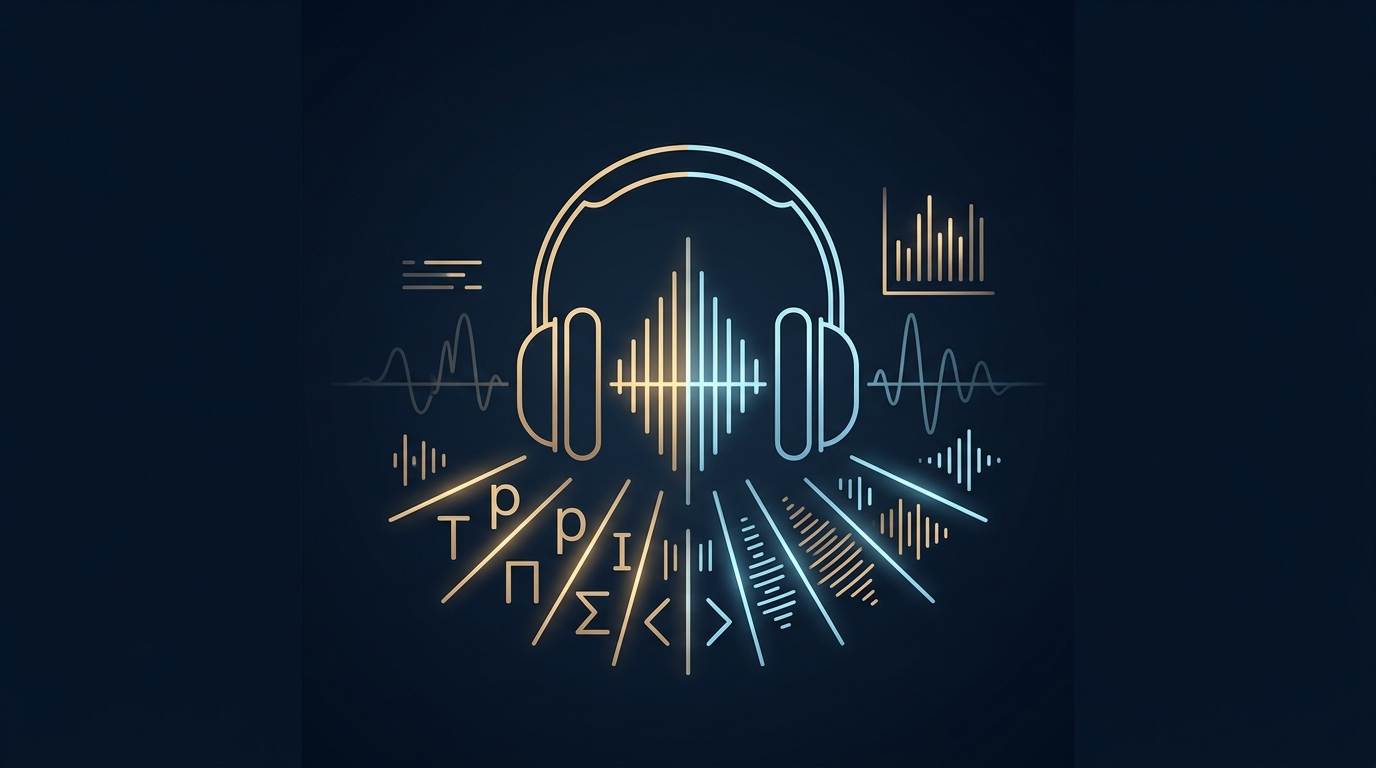
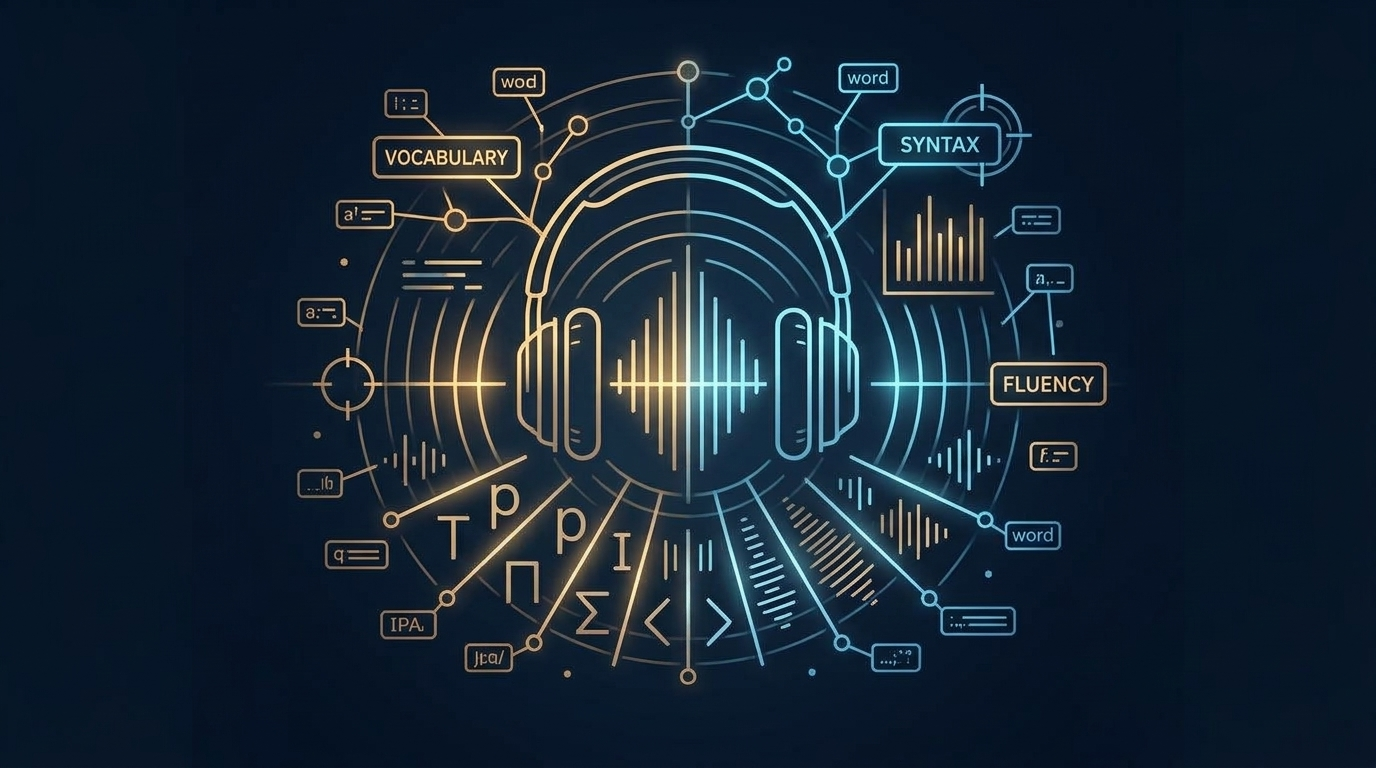
refactor: update course roadmap stages and content in landing page

diff --git a/app/page.js b/app/page.js
@@ -782,7 +782,7 @@ export default function Home() {
         <span className="section-badge">NỘI DUNG CHƯƠNG TRÌNH ĐÀO TẠO</span>
         <h2 className="section-title">Lộ Trình Bứt Phá <span className="highlight">600 + TOEIC Thực Chiến</span><br /><span className="title-sub-break">Trong 36 Buổi</span></h2>
         <p className="section-subtitle">
-          Đảm bảo chuẩn 600+ sau khóa học cho người mất gốc — Đồng thời rèn luyện kỹ năng xử lý đề ETS để bạn hoàn toàn có thể bứt phá 800+ bình thường. Được thiết kế theo trục thời gian 6 chặng liên hoàn:
+          Đảm bảo chuẩn 600+ sau khóa học cho người mất gốc — Đồng thời rèn luyện kỹ năng xử lý đề ETS để bạn hoàn toàn có thể bứt phá 800+ bình thường. Được thiết kế theo trục thời gian 3 giai đoạn tinh gọn &amp; thực chiến:
         </p>
       </div>
 
@@ -794,16 +794,16 @@ export default function Home() {
             <div className="mv-roadmap-beam" id="mv-roadmap-beam"></div>
           </div>
 
-          {/*  Chặng 01  */}
+          {/*  Giai Đoạn 01  */}
           <div className="mv-roadmap-row">
             <div className="mv-roadmap-left">
               <span className="mv-stage-pill">• GIAI ĐOẠN 01</span>
-              <h3 className="mv-stage-left-title">Xây Nền & Phản Xạ Nghe</h3>
-              <div className="mv-stage-sessions-tag">Buổi 01 – 06 • 2 tuần đầu</div>
+              <h3 className="mv-stage-left-title">Xóa Mù Nền Tảng &amp; Luyện Nghe Thực Chiến</h3>
+              <div className="mv-stage-sessions-tag">Xây Nền Vững Chắc • Listening Part 1 – 4</div>
               <div className="mv-stage-illustration-wrap">
                 <img
                   src="/image/stage-1-illustration.jpg"
-                  alt="Minh họa Giai đoạn 01: Chuẩn Hóa Ngữ Âm IPA & Xóa Mù Nghe Part 1 - Part 2"
+                  alt="Minh họa Giai đoạn 01: Xóa Mù Nền Tảng & Luyện Nghe Thực Chiến"
                   className="mv-stage-illustration-img"
                   loading="lazy"
                 />
@@ -817,48 +817,38 @@ export default function Home() {
               <div className="mv-roadmap-card">
                 <div className="mv-mobile-stage-bar">
                   <span className="mv-stage-pill">• GIAI ĐOẠN 01</span>
-                  <span className="mv-stage-sessions-tag">Buổi 01 – 06 • 2 tuần đầu</span>
+                  <span className="mv-stage-sessions-tag">Xây Nền Vững Chắc • Listening Part 1 – 4</span>
                 </div>
                 <div className="mv-mobile-stage-illustration">
                   <img
                     src="/image/stage-1-illustration.jpg"
-                    alt="Minh họa Giai đoạn 01: Chuẩn Hóa Ngữ Âm IPA & Xóa Mù Nghe Part 1 - Part 2"
+                    alt="Minh họa Giai đoạn 01: Xóa Mù Nền Tảng & Luyện Nghe Thực Chiến"
                     className="mv-stage-illustration-img"
                     loading="lazy"
                   />
                 </div>
-                <h4 className="mv-card-headline">Chuẩn Hóa Ngữ Âm IPA & Xóa Mù Nghe Part 1 - Part 2</h4>
+                <h4 className="mv-card-headline">Xóa Mù Nền Tảng &amp; Làm Chủ Kỹ Thuật Nghe Thực Chiến Part 1 – Part 4</h4>
                 <p className="mv-card-summary">
-                  Sửa triệt để khẩu hình và phát âm từng nguyên âm, phụ âm, hiện tượng nối âm và nuốt âm của người bản xứ. Loại bỏ hoàn toàn thói quen nghe dịch thô trong đầu.
+                  Bạn sẽ nắm trọn bẫy trong phần <strong>NGHE</strong> của bài thi TOEIC, kỹ thuật <strong>"săn" Keyword</strong> và cách <strong>nghe hiểu Part 1 đến Part 4</strong> mà không cần phải dịch 100% bài nghe. Kèm theo đó, mình sẽ cung cấp cho các bạn nắm vững toàn bộ kiến thức siêu nền tảng như <strong>công thức &amp; cách dùng của các thì cơ bản</strong>, <strong>công thức câu bị động tiếng Anh</strong> cùng <strong>1.000 từ vựng tiếng Anh cơ bản</strong> — giúp bạn xóa bỏ hoàn toàn tình trạng nghe tiếng Anh mãi mà không hiểu gì.
                 </p>
-                <div className="mv-card-bullets">
-                  <div className="mv-bullet-item">
-                    <i data-lucide="check-circle" style={{ width: '16px', height: '16px' }}></i>
-                    <span>Gọi từng học viên đọc mẫu và sửa lỗi phát âm IPA 1-1 trực tiếp qua Zoom Live.</span>
-                  </div>
-                  <div className="mv-bullet-item">
-                    <i data-lucide="check-circle" style={{ width: '16px', height: '16px' }}></i>
-                    <span>Bẻ gãy bẫy câu hỏi WH- và các câu trả lời gián tiếp của đề thi ETS mới ("Ask David", "Not yet decided").</span>
-                  </div>
-                </div>
                 <div className="mv-deliverable-badge">
                   <i data-lucide="target" style={{ width: '16px', height: '16px' }}></i>
-                  <span>Mục tiêu chặng: Đúng &gt;80% Part 1 và làm chủ phản xạ bẫy câu hỏi Part 2 trong 3 giây.</span>
+                  <span>Mục tiêu giai đoạn: Xóa sạch mất gốc, làm chủ phản xạ bẫy nghe Part 1 - 4 và tự tin đạt 350+ Listening.</span>
                 </div>
               </div>
             </div>
           </div>
 
-          {/*  Chặng 02  */}
+          {/*  Giai Đoạn 02  */}
           <div className="mv-roadmap-row">
             <div className="mv-roadmap-left">
               <span className="mv-stage-pill">• GIAI ĐOẠN 02</span>
-              <h3 className="mv-stage-left-title">Bắt Nhịp Part 3 - Part 4</h3>
-              <div className="mv-stage-sessions-tag">Buổi 07 – 12 • Tuần 3-4</div>
+              <h3 className="mv-stage-left-title">Reading Bứt Phá &amp; Mẹo Giải Nhanh 3 Giây</h3>
+              <div className="mv-stage-sessions-tag">Đột Phá Điểm Số • Reading Part 5, 6 &amp; 7</div>
               <div className="mv-stage-illustration-wrap">
                 <img
                   src="/image/stage-2-illustration.jpg"
-                  alt="Minh họa Giai đoạn 02: Bắt Nhịp Part 3 - Part 4 & Săn Keyword"
+                  alt="Minh họa Giai đoạn 02: Reading Bứt Phá & Mẹo Giải Nhanh 3 Giây"
                   className="mv-stage-illustration-img"
                   loading="lazy"
                 />
@@ -872,48 +862,38 @@ export default function Home() {
               <div className="mv-roadmap-card">
                 <div className="mv-mobile-stage-bar">
                   <span className="mv-stage-pill">• GIAI ĐOẠN 02</span>
-                  <span className="mv-stage-sessions-tag">Buổi 07 – 12 • Tuần 3-4</span>
+                  <span className="mv-stage-sessions-tag">Đột Phá Điểm Số • Reading Part 5, 6 &amp; 7</span>
                 </div>
                 <div className="mv-mobile-stage-illustration">
                   <img
                     src="/image/stage-2-illustration.jpg"
-                    alt="Minh họa Giai đoạn 02: Bắt Nhịp Part 3 - Part 4 & Săn Keyword"
+                    alt="Minh họa Giai đoạn 02: Reading Bứt Phá & Mẹo Giải Nhanh 3 Giây"
                     className="mv-stage-illustration-img"
                     loading="lazy"
                   />
                 </div>
-                <h4 className="mv-card-headline">Luyện Sâu Kỹ Thuật Đọc Trước Đề & Săn Keyword Part 3 - 4</h4>
+                <h4 className="mv-card-headline">Reading Bứt Phá: Mẹo Giải Nhanh 3 Giây &amp; Tuyệt Chiêu Xử Lý Part 7</h4>
                 <p className="mv-card-summary">
-                  Thành thạo kỹ thuật đọc trước câu hỏi và đáp án trong 20 giây nghỉ giữa các đoạn audio, định vị trước ngữ cảnh để đón đầu đáp án trước khi người bản xứ nói dứt câu.
+                  Mình sẽ chỉ dạy toàn bộ tất cả kiến thức nền tảng cần thiết để bạn làm thật tốt phần <strong>ĐỌC HIỂU</strong>. Bạn được trang bị <strong>kỹ năng giải nhanh Part 5, 6</strong> — nhìn phát biết ngay câu nào dùng mẹo chọn đáp án <strong>trong 3 giây</strong>, câu nào cần dịch. Ngoài ra, bạn sẽ nắm được <strong>kỹ thuật xử lý Part 7 đọc hiểu văn bản</strong>, không cần đọc hết bài văn vẫn có thể chọn được đáp án đúng. Và bởi vì đây là khóa học thực chiến nên ngoài những kiến thức nền tảng nói trên, bạn sẽ được mình chỉ dạy trọn bộ <strong>kỹ năng làm bài</strong>, <strong>chiến thuật chia thời gian</strong> và <strong>cách xử lý các dạng câu hỏi hiệu quả</strong> trong bài thi TOEIC.
                 </p>
-                <div className="mv-card-bullets">
-                  <div className="mv-bullet-item">
-                    <i data-lucide="check-circle" style={{ width: '16px', height: '16px' }}></i>
-                    <span>Nắm trọn cấu trúc Mở - Thân - Kết của đoạn hội thoại & bài độc thoại thường gặp trong môi trường công sở.</span>
-                  </div>
-                  <div className="mv-bullet-item">
-                    <i data-lucide="check-circle" style={{ width: '16px', height: '16px' }}></i>
-                    <span>Thi thử Checkpoint đánh giá sức bền nghe 100 câu liên tục không bị đuối sức.</span>
-                  </div>
-                </div>
                 <div className="mv-deliverable-badge">
                   <i data-lucide="target" style={{ width: '16px', height: '16px' }}></i>
-                  <span>Mục tiêu chặng: Bắt nhịp audio mượt mà, không bị trôi câu hỏi, tự tin đạt 350–420+ điểm Listening.</span>
+                  <span>Mục tiêu giai đoạn: Quét sạch 46 câu Part 5+Part 6 trong chớp mắt, dứt điểm Part 7 không lo cháy giờ, bứt phá 350+ Reading.</span>
                 </div>
               </div>
             </div>
           </div>
 
-          {/*  Chặng 03  */}
+          {/*  Giai Đoạn 03  */}
           <div className="mv-roadmap-row">
             <div className="mv-roadmap-left">
               <span className="mv-stage-pill">• GIAI ĐOẠN 03</span>
-              <h3 className="mv-stage-left-title">Ngữ Pháp & Part 5 Siêu Tốc</h3>
-              <div className="mv-stage-sessions-tag">Buổi 13 – 20 • Tuần 5-7</div>
+              <h3 className="mv-stage-left-title">Luyện Đề Format Chuẩn Thi Thật</h3>
+              <div className="mv-stage-sessions-tag">Sát Phòng Thi ETS • Chấm Chữa &amp; Kèm Cặp 1-1</div>
               <div className="mv-stage-illustration-wrap">
                 <img
                   src="/image/stage-3-illustration.jpg"
-                  alt="Minh họa Giai đoạn 03: Ngữ Pháp Cốt Lõi & Part 5 Siêu Tốc Trong 15s"
+                  alt="Minh họa Giai đoạn 03: Luyện Đề Format Chuẩn Thi Thật"
                   className="mv-stage-illustration-img"
                   loading="lazy"
                 />
@@ -921,204 +901,29 @@ export default function Home() {
             </div>
             <div className="mv-roadmap-center">
               <div className="mv-roadmap-node">03</div>
-              <div className="mv-roadmap-spine"></div>
-            </div>
-            <div className="mv-roadmap-right">
-              <div className="mv-roadmap-card">
-                <div className="mv-mobile-stage-bar">
-                  <span className="mv-stage-pill">• GIAI ĐOẠN 03</span>
-                  <span className="mv-stage-sessions-tag">Buổi 13 – 20 • Tuần 5-7</span>
-                </div>
-                <div className="mv-mobile-stage-illustration">
-                  <img
-                    src="/image/stage-3-illustration.jpg"
-                    alt="Minh họa Giai đoạn 03: Ngữ Pháp Cốt Lõi & Part 5 Siêu Tốc Trong 15s"
-                    className="mv-stage-illustration-img"
-                    loading="lazy"
-                  />
-                </div>
-                <h4 className="mv-card-headline">Làm Chủ Ngữ Pháp Cốt Lõi & Xử Lý Part 5 Trong 15s/Câu</h4>
-                <p className="mv-card-summary">
-                  Cô đọng 12 thì động từ thực chiến, câu bị động, trật tự từ loại (Danh/Tính/Động/Trạng), mệnh đề quan hệ và liên từ. Dạy cách ngắt cụm ngữ pháp để nhìn ra ngay đáp án.
-                </p>
-                <div className="mv-card-bullets">
-                  <div className="mv-bullet-item">
-                    <i data-lucide="check-circle" style={{ width: '16px', height: '16px' }}></i>
-                    <span>Kỹ thuật nhìn đuôi từ và vị trí ngữ pháp chọn ngay đáp án mà không cần dịch toàn bộ câu.</span>
-                  </div>
-                  <div className="mv-bullet-item">
-                    <i data-lucide="check-circle" style={{ width: '16px', height: '16px' }}></i>
-                    <span>Tiết kiệm ít nhất 15 phút quý giá cho phần Part 5 để dồn thời gian giải quyết Part 7.</span>
-                  </div>
-                </div>
-                <div className="mv-deliverable-badge">
-                  <i data-lucide="target" style={{ width: '16px', height: '16px' }}></i>
-                  <span>Mục tiêu chặng: Hoàn thành 30 câu Part 5 trong dưới 8 phút với độ chính xác trên 85%.</span>
-                </div>
-              </div>
-            </div>
-          </div>
-
-          {/*  Chặng 04  */}
-          <div className="mv-roadmap-row">
-            <div className="mv-roadmap-left">
-              <span className="mv-stage-pill">• GIAI ĐOẠN 04</span>
-              <h3 className="mv-stage-left-title">Scanning & Skimming Part 6 - 7</h3>
-              <div className="mv-stage-sessions-tag">Buổi 21 – 28 • Tuần 8-9</div>
-              <div className="mv-stage-illustration-wrap">
-                <img
-                  src="/image/stage-4-illustration.jpg"
-                  alt="Minh họa Giai đoạn 04: Chiến Thuật Scanning - Skimming & Đọc Hiểu Part 6 - 7"
-                  className="mv-stage-illustration-img"
-                  loading="lazy"
-                />
-              </div>
-            </div>
-            <div className="mv-roadmap-center">
-              <div className="mv-roadmap-node">04</div>
-              <div className="mv-roadmap-spine"></div>
-            </div>
-            <div className="mv-roadmap-right">
-              <div className="mv-roadmap-card">
-                <div className="mv-mobile-stage-bar">
-                  <span className="mv-stage-pill">• GIAI ĐOẠN 04</span>
-                  <span className="mv-stage-sessions-tag">Buổi 21 – 28 • Tuần 8-9</span>
-                </div>
-                <div className="mv-mobile-stage-illustration">
-                  <img
-                    src="/image/stage-4-illustration.jpg"
-                    alt="Minh họa Giai đoạn 04: Chiến Thuật Scanning - Skimming & Đọc Hiểu Part 6 - 7"
-                    className="mv-stage-illustration-img"
-                    loading="lazy"
-                  />
-                </div>
-                <h4 className="mv-card-headline">Chiến Thuật Scanning - Skimming & Đọc Hiểu Part 6 - Part 7</h4>
-                <p className="mv-card-summary">
-                  Phân bổ bản đồ thời gian phòng thi chuẩn xác: Kỹ thuật đọc lướt (Skimming) nắm ý chính và đọc quét (Scanning) định vị từ khóa cho từng dạng câu hỏi trong bài đọc dài.
-                </p>
-                <div className="mv-card-bullets">
-                  <div className="mv-bullet-item">
-                    <i data-lucide="check-circle" style={{ width: '16px', height: '16px' }}></i>
-                    <span>Chiến lược xử lý triệt để đoạn đơn, đoạn đôi, đoạn ba và chuỗi tin nhắn Message Chain.</span>
-                  </div>
-                  <div className="mv-bullet-item">
-                    <i data-lucide="check-circle" style={{ width: '16px', height: '16px' }}></i>
-                    <span>Xóa bỏ hoàn toàn nỗi sợ cháy giờ, làm xong Part 7 vẫn thừa 5–10 phút kiểm tra lại bài.</span>
-                  </div>
-                </div>
-                <div className="mv-deliverable-badge">
-                  <i data-lucide="target" style={{ width: '16px', height: '16px' }}></i>
-                  <span>Mục tiêu chặng: Không bao giờ bị thiếu giờ, tự tin giải quyết gọn gàng 100 câu Reading.</span>
-                </div>
-              </div>
-            </div>
-          </div>
-
-          {/*  Chặng 05  */}
-          <div className="mv-roadmap-row">
-            <div className="mv-roadmap-left">
-              <span className="mv-stage-pill">• GIAI ĐOẠN 05</span>
-              <h3 className="mv-stage-left-title">Part 7 Nâng Cao & Bứt Tốc</h3>
-              <div className="mv-stage-sessions-tag">Buổi 29 – 34 • Tuần 10-11</div>
-              <div className="mv-stage-illustration-wrap">
-                <img
-                  src="/image/stage-5-illustration.jpg"
-                  alt="Minh họa Giai đoạn 05: Xử Lý Văn Bản Khó Part 7 & Bứt Tốc Về Đích"
-                  className="mv-stage-illustration-img"
-                  loading="lazy"
-                />
-              </div>
-            </div>
-            <div className="mv-roadmap-center">
-              <div className="mv-roadmap-node">05</div>
-              <div className="mv-roadmap-spine"></div>
-            </div>
-            <div className="mv-roadmap-right">
-              <div className="mv-roadmap-card">
-                <div className="mv-mobile-stage-bar">
-                  <span className="mv-stage-pill">• GIAI ĐOẠN 05</span>
-                  <span className="mv-stage-sessions-tag">Buổi 29 – 34 • Tuần 10-11</span>
-                </div>
-                <div className="mv-mobile-stage-illustration">
-                  <img
-                    src="/image/stage-5-illustration.jpg"
-                    alt="Minh họa Giai đoạn 05: Xử Lý Văn Bản Khó Part 7 & Bứt Tốc Về Đích"
-                    className="mv-stage-illustration-img"
-                    loading="lazy"
-                  />
-                </div>
-                <h4 className="mv-card-headline">Kỹ Năng Xử Lý Văn Bản Khó Part 7 & Bứt Tốc Về Đích</h4>
-                <p className="mv-card-summary">
-                  Bóc tách các bài đọc suy luận phức tạp, email đa chiều và bảng biểu kỹ thuật số. Thầy Hưng trực tiếp chấm chữa, bóc tách ma trận lỗi sai cá nhân của từng học viên.
-                </p>
-                <div className="mv-card-bullets">
-                  <div className="mv-bullet-item">
-                    <i data-lucide="check-circle" style={{ width: '16px', height: '16px' }}></i>
-                    <span>Phân tích ma trận bẫy từ đồng nghĩa Paraphrase tinh vi nhất của các bộ đề ETS mới nhất.</span>
-                  </div>
-                  <div className="mv-bullet-item">
-                    <i data-lucide="check-circle" style={{ width: '16px', height: '16px' }}></i>
-                    <span>Vá ngay các lỗ hổng kiến thức và thói quen làm bài còn thiếu sót trước kỳ thi thật.</span>
-                  </div>
-                </div>
-                <div className="mv-deliverable-badge">
-                  <i data-lucide="target" style={{ width: '16px', height: '16px' }}></i>
-                  <span>Mục tiêu chặng: Tăng thêm 80–120 điểm Reading, điểm thi thử đạt mốc 650–750+.</span>
-                </div>
-              </div>
-            </div>
-          </div>
-
-          {/*  Chặng 06  */}
-          <div className="mv-roadmap-row">
-            <div className="mv-roadmap-left">
-              <span className="mv-stage-pill">• GIAI ĐOẠN 06</span>
-              <h3 className="mv-stage-left-title">Tổng Duyệt & Chạm Đích 800+</h3>
-              <div className="mv-stage-sessions-tag">Buổi 35 – 36 • Tuần 12</div>
-              <div className="mv-stage-illustration-wrap">
-                <img
-                  src="/image/stage-6-illustration.jpg"
-                  alt="Minh họa Giai đoạn 06: Tổng Duyệt Phòng Thi & Chạm Đích 800+ TOEIC"
-                  className="mv-stage-illustration-img"
-                  loading="lazy"
-                />
-              </div>
-            </div>
-            <div className="mv-roadmap-center">
-              <div className="mv-roadmap-node">06</div>
               <div className="mv-roadmap-spine" style={{ display: 'none' }}></div>
             </div>
             <div className="mv-roadmap-right">
               <div className="mv-roadmap-card">
                 <div className="mv-mobile-stage-bar">
-                  <span className="mv-stage-pill">• GIAI ĐOẠN 06</span>
-                  <span className="mv-stage-sessions-tag">Buổi 35 – 36 • Tuần 12</span>
+                  <span className="mv-stage-pill">• GIAI ĐOẠN 03</span>
+                  <span className="mv-stage-sessions-tag">Sát Phòng Thi ETS • Chấm Chữa &amp; Kèm Cặp 1-1</span>
                 </div>
                 <div className="mv-mobile-stage-illustration">
                   <img
-                    src="/image/stage-6-illustration.jpg"
-                    alt="Minh họa Giai đoạn 06: Tổng Duyệt Phòng Thi & Chạm Đích 800+ TOEIC"
+                    src="/image/stage-3-illustration.jpg"
+                    alt="Minh họa Giai đoạn 03: Luyện Đề Format Chuẩn Thi Thật"
                     className="mv-stage-illustration-img"
                     loading="lazy"
                   />
                 </div>
-                <h4 className="mv-card-headline">Tổng Duyệt Phòng Thi & Hướng Dẫn Tự Ôn Tập Bứt Phá 800+ TOEIC</h4>
+                <h4 className="mv-card-headline">Luyện Đề Chuẩn Format Thi Thật Trên Nền Tảng Chấm Chữa &amp; Kèm Cặp Sát Sao</h4>
                 <p className="mv-card-summary">
-                  Rèn luyện tâm lý phòng thi vững vàng, mẹo tránh bẫy tâm lý khi mất tập trung giữa giờ, quy tắc phân bổ thể lực 120 phút liên tục trong phòng thi thật.
+                  Bạn được <strong>luyện đề trên nền tảng có chấm chữa chi tiết</strong> với hình thức, độ khó sát thi mà mình đã thiết kế dành riêng cho các bạn học viên trong lớp. Làm xong đề hệ thống sẽ <strong>chấm bạn được bao nhiêu điểm từng kỹ năng</strong> và <strong>chữa lỗi sai trực tiếp</strong> cho bạn. Và đương nhiên, bạn không học một mình! Mình sẽ <strong>đồng hành, kèm cặp sát sao</strong> đến khi nào bạn thi được thì thôi.
                 </p>
-                <div className="mv-card-bullets">
-                  <div className="mv-bullet-item">
-                    <i data-lucide="check-circle" style={{ width: '16px', height: '16px' }}></i>
-                    <span>Đảm bảo học xong đạt chuẩn 600+ cho học viên mất gốc (Học lại 100% MIỄN PHÍ nếu không đạt MỤC TIÊU).</span>
-                  </div>
-                  <div className="mv-bullet-item">
-                    <i data-lucide="check-circle" style={{ width: '16px', height: '16px' }}></i>
-                    <span>Trang bị phương pháp thực chiến và lộ trình tự rèn luyện để bứt phá 700, 800+, thậm chí 895 TOEIC bình thường.</span>
-                  </div>
-                </div>
                 <div className="mv-deliverable-badge mv-deliverable-award">
                   <i data-lucide="award" style={{ width: '16px', height: '16px' }}></i>
-                  <span>Mục tiêu chặng: Tự tin bước vào phòng thi thật ETS và cầm chắc chứng chỉ mong ước ngay lần thi đầu tiên!</span>
+                  <span>Cam kết đầu ra: Tự tin bước vào phòng thi thật ETS và cầm chắc chứng chỉ 600+ đến 800+ TOEIC ngay lần thi đầu tiên!</span>
                 </div>
               </div>
             </div>
@@ -1870,7 +1675,7 @@ export default function Home() {
           </div>
           <div className="faq-content-pane">
             <div className="faq-content-inner">
-              Đây chính xác là đối tượng mà khóa học TOEIC ONLINE PRO hướng tới. Khóa học được thiết kế bắt đầu ngay từ <strong>Chặng 1: Chuẩn hóa 44 âm IPA từ số 0</strong>, giúp bạn phát âm chuẩn từng từ và nghe được âm nối của người bản xứ. Trong mỗi buổi học 90 phút, Thầy Hưng sẽ gọi từng bạn đọc dịch và sửa bài 1-1, đảm bảo dù bạn mất gốc đến đâu cũng theo kịp tiến độ và tự tin đạt chuẩn 600+, làm bàn đạp bứt phá 800+.
+              Đây chính xác là đối tượng mà khóa học TOEIC ONLINE PRO hướng tới. Khóa học được thiết kế bắt đầu ngay từ <strong>Giai đoạn 1: Xóa mù nền tảng &amp; Luyện nghe thực chiến từ số 0</strong>, giúp bạn nắm vững 1.000 từ vựng cốt lõi, công thức các thì cơ bản, câu bị động và kỹ thuật săn Keyword không cần dịch 100%. Trong mỗi buổi học 90 phút, Thầy Hưng sẽ gọi từng bạn đọc dịch và sửa bài 1-1, đảm bảo dù bạn mất gốc đến đâu cũng theo kịp tiến độ và tự tin đạt chuẩn 600+, làm bàn đạp bứt phá 800+.
             </div>
           </div>
         </div>
